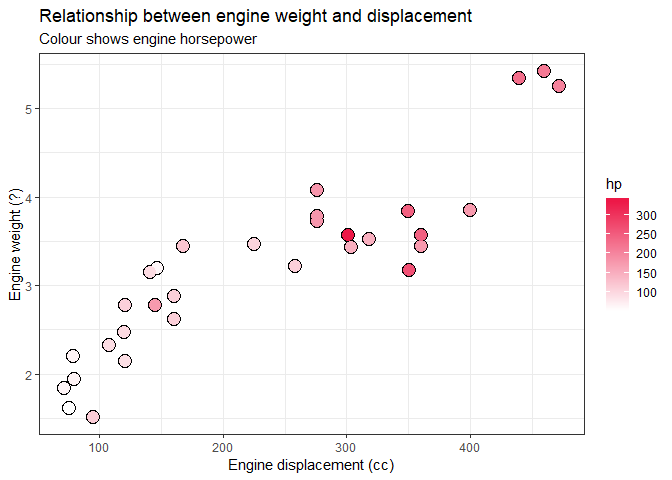
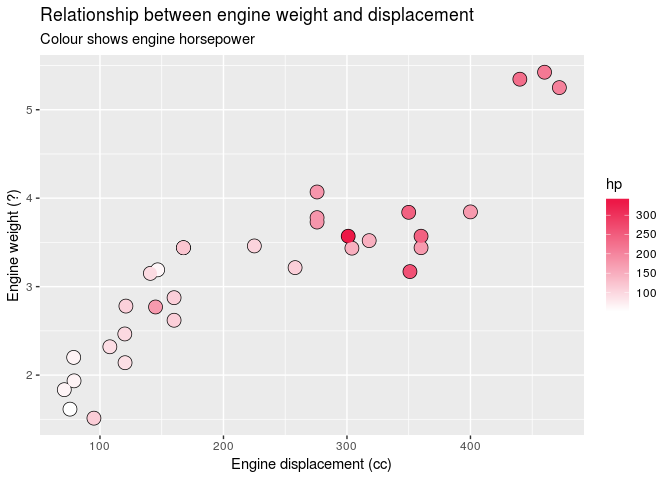
Finished v1 of theme_rb

diff --git a/README.md b/README.md
@@ -34,15 +34,8 @@ Usage is through the functions `scale_fill_redbull` and `scale_colour_redbull` d
 
 ``` r
 library(ggplot2)
-```
-
-    ## Warning: package 'ggplot2' was built under R version 3.5.2
-
-``` r
 library(redbull)
 library(magrittr)
-
-theme_set(theme_bw())
 
 # Using colour aesthetic (points/lines)
 mtcars %>% 
@@ -98,3 +91,29 @@ mtcars %>%
 ```
 
 ![](README_files/figure-markdown_github/rep%20parameter-2.png)
+
+`theme_rb`
+----------
+
+The `redbull` package also contains a full `ggplot2` theme which you can apply using `theme_rb()`. To use this as the default theme for all charts in your script or notebook use `theme_set(theme_rb())`.
+
+``` r
+theme_set(theme_rb())
+```
+
+    ## Warning: New theme missing the following elements: axis.line
+
+``` r
+mtcars %>% 
+  ggplot(aes(x = disp, y = wt, colour = hp)) + 
+  geom_point(size = 4.5, colour = "black") +
+  geom_point(size = 4) + 
+  scale_color_redbull("rbwarm", discrete = FALSE, reverse = TRUE) +
+  labs(title = "Relationship between engine weight and displacement",
+       subtitle = "Colour shows engine horsepower",
+       caption = "Source: R mtcars dataset") +
+  xlab("Engine displacement (cc)") +
+  ylab("Engine weight (?)")
+```
+
+![](README_files/figure-markdown_github/theme_rb-1.png)
